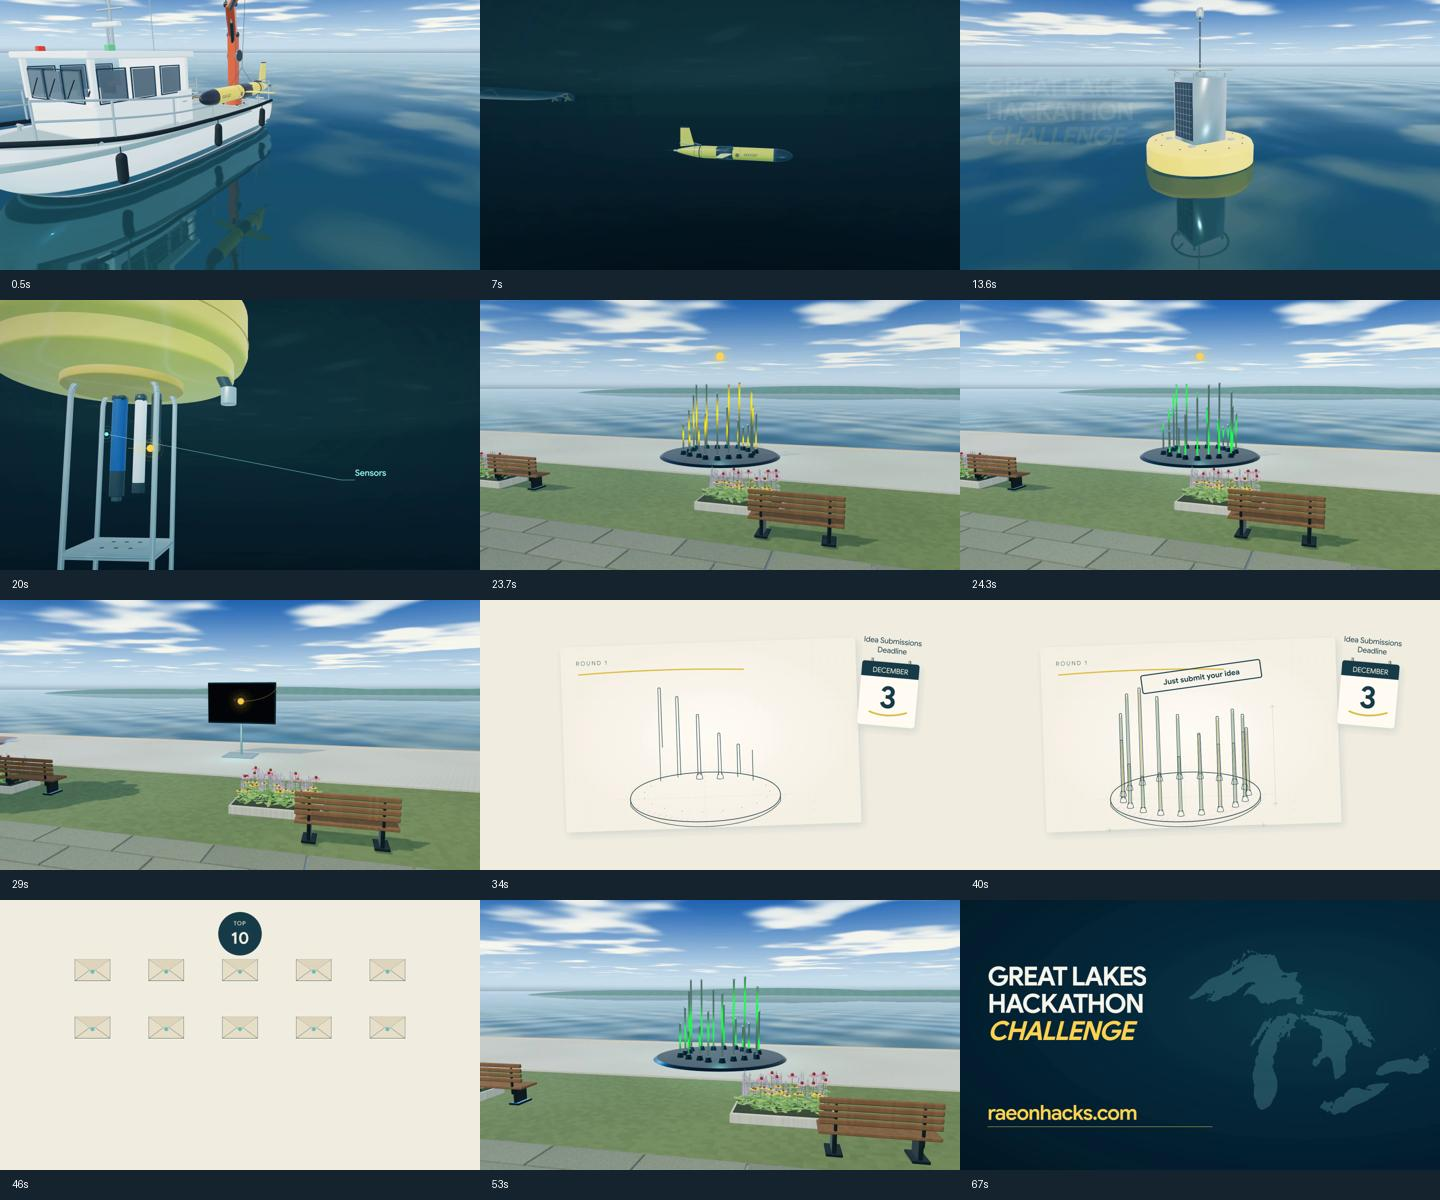
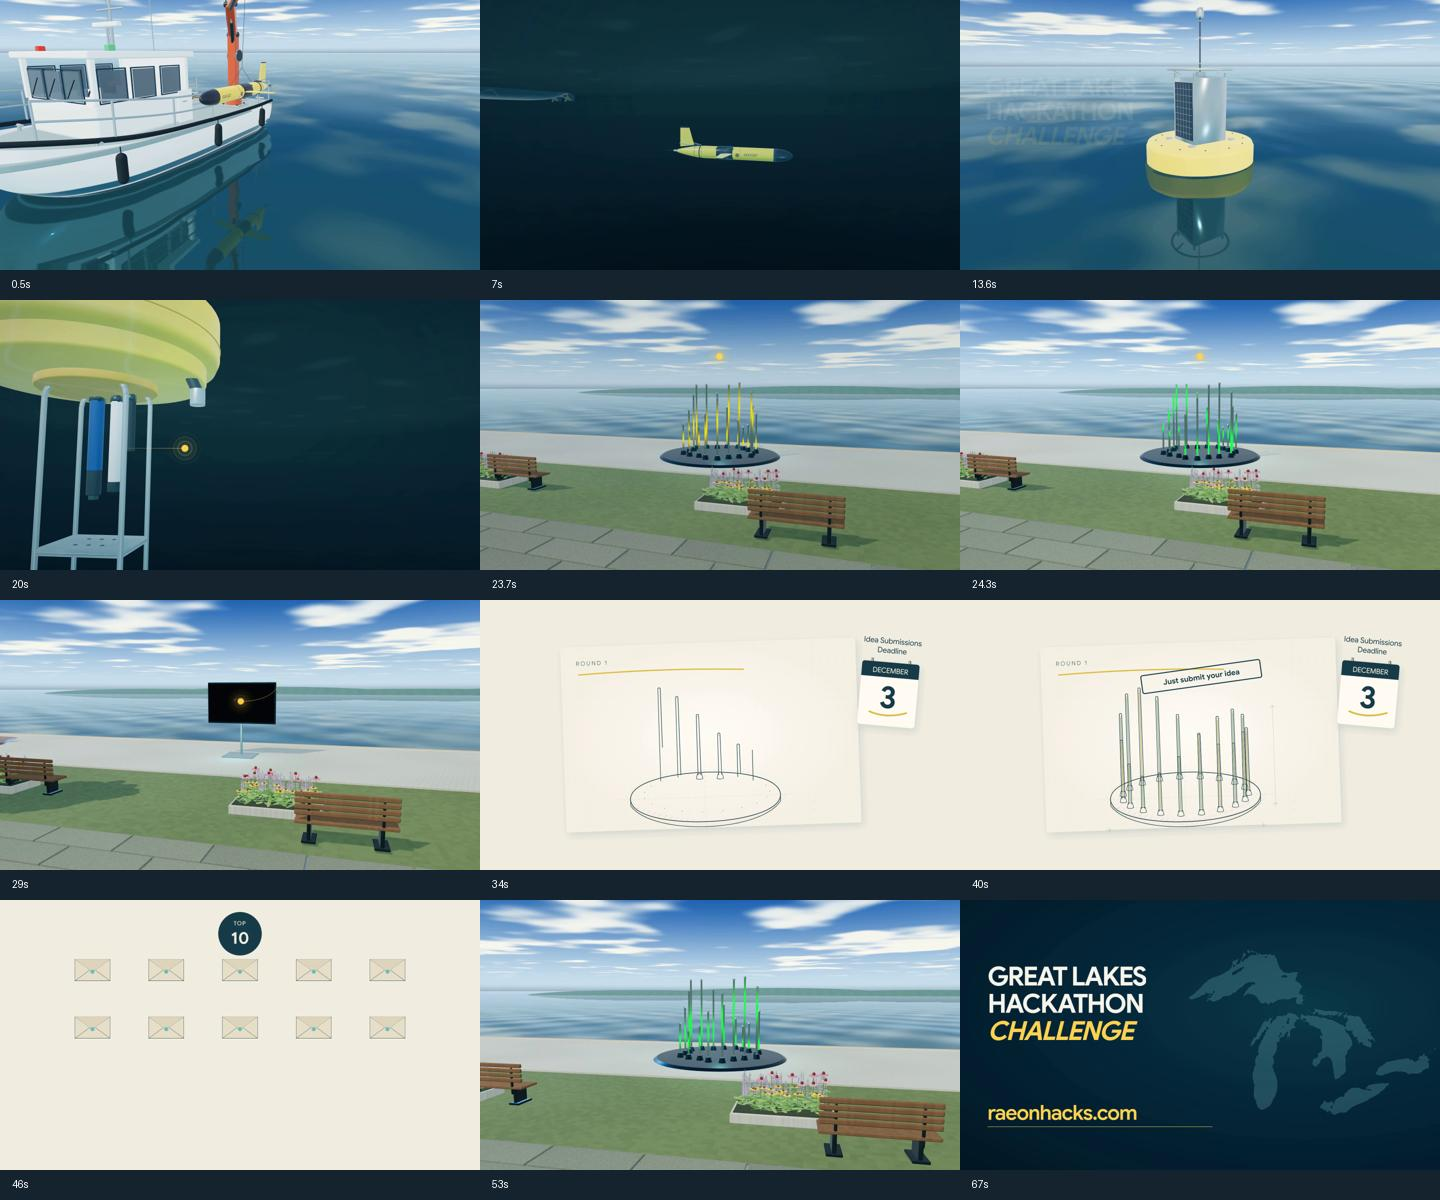
Extend underwater climb and level glide through24 seconds

Changed region(s): [[0.0, 0.2467, 0.1875, 0.4933], [0.4688, 0.3392, 0.5312, 0.37]]

diff --git a/promo/src/rough-science.jsx b/promo/src/rough-science.jsx
@@ -7,8 +7,8 @@ import {RoughWaterfront} from './rough-waterfront';
 import * as THREE from 'three';
 import {productionSciencePath} from './production-science-path.mjs';
 import {productionWaterHeight} from './production-water-height.mjs';
-export function RoughScience({assembled=false,production=false,revision=false}){
- const f=useCurrentFrame(),canvas=useRef(null),world=useRef(null),annotations=useRef(null);
+export function RoughScience({assembled=false,production=false,revision=false,frameOverride=null}){
+ const currentFrame=useCurrentFrame(),f=frameOverride??currentFrame,canvas=useRef(null),world=useRef(null),annotations=useRef(null);
  const sceneFrame=assembled&&!production&&f>201?201+(f-201)*72/117:f;const [handle]=useState(()=>delayRender('rough science sensor reveal'));
  useLayoutEffect(()=>{let disposed=false;setup(canvas.current,true,annotations.current,production,revision).then(w=>{if(disposed){w.dispose();return}world.current=w;w.draw(sceneFrame);continueRender(handle)}).catch(cancelRender);return()=>{disposed=true;world.current?.dispose()}},[]);
  useLayoutEffect(()=>{world.current?.draw(sceneFrame)},[f]);
@@ -23,7 +23,7 @@ export function RoughScience({assembled=false,production=false,revision=false}){
  <div style={{position:'absolute',left:100,top:300,fontFamily:'Google Sans, sans-serif',fontWeight:700,fontSize:100,lineHeight:.98,letterSpacing:'-.055em',color:'#f6f6ed',opacity:title}}>GREAT LAKES<br/>HACKATHON<br/><span style={{color:'#ffd450',fontStyle:'italic'}}>CHALLENGE</span></div>
  <canvas ref={annotations} width={1920} height={1080} style={{position:'absolute',inset:0,width:1920,height:1080}}/>
  <AbsoluteFill style={{background:'#03131f',opacity:production?0:out}}/>
- {production&&f>=280&&<AbsoluteFill style={{opacity:(()=>{const p=Math.max(0,Math.min(1,(f-280)/37));return p*p*(3-2*p)})()}}><RoughWaterfront production silent revision={revision} hidePulse frameOverride={f-318}/></AbsoluteFill>}
+ {production&&f>=(revision?310:280)&&<AbsoluteFill style={{opacity:(()=>{const p=Math.max(0,Math.min(1,(f-(revision?310:280))/(revision?53:37)));return p*p*(3-2*p)})()}}><RoughWaterfront production silent revision={revision} hidePulse frameOverride={f-(revision?364:318)}/></AbsoluteFill>}
 
  {revision&&<GoldStoryPulse scene="science" f={f}/>}
  </AbsoluteFill>

diff --git a/promo/src/gold-story-pulse.jsx b/promo/src/gold-story-pulse.jsx
@@ -4,9 +4,9 @@ const gold='#ffd450';
 export function GoldStoryPulse({scene,f}){
  if(scene==='science'&&f<165)return null;
  if(scene==='waterfront'&&f>141)return null;
- const point=goldStoryPoint(scene,f),time=(scene==='science'?f/30:10.6+f/30),hit=scene==='waterfront'?Math.max(0,Math.min(1,(f-TV_ENTRY_FRAME)/13)):0;
+ const point=goldStoryPoint(scene,f),time=(scene==='science'?f/30:364/30+f/30),hit=scene==='waterfront'?Math.max(0,Math.min(1,(f-TV_ENTRY_FRAME)/13)):0;
  const fade=scene==='waterfront'?1-Math.max(0,Math.min(1,(f-125)/4)):1;
- const ringScale=scene==='waterfront'?.5:1-.5*Math.max(0,Math.min(1,(f-280)/37));
+ const ringScale=scene==='waterfront'?.5:1-.5*Math.max(0,Math.min(1,(f-310)/53));
  const trail=Array.from({length:60},(_,i)=>goldStoryPoint(scene,Math.max(scene==='science'?165:-153,f-i*.9)));
  return <svg width="1920" height="1080" style={{position:'absolute',inset:0,pointerEvents:'none'}}>
  <defs><radialGradient id={`gold-aura-${scene}`}><stop stopColor={gold} stopOpacity=".45"/><stop offset=".3" stopColor={gold} stopOpacity=".12"/><stop offset="1" stopColor={gold} stopOpacity="0"/></radialGradient></defs>

diff --git a/promo/src/corrected-scenes.jsx b/promo/src/corrected-scenes.jsx
@@ -12,5 +12,6 @@ const components=[RoughOpening,RoughScience,RoughWaterfront,RoughRoundOne,RoughR
 const maps=timeline.scenes.map(s=>narrationTimeMap(s.from,s.to));
 export function CorrectedScene({index}){
  const f=useCurrentFrame(),Component=components[index];
+ if(index===1)return <Component production revision assembled frameOverride={maps[index](f)}/>;
  return <Freeze frame={maps[index](f)}><Component production revision assembled/></Freeze>;
 }

diff --git a/promo/review-24s-transition.py b/promo/review-24s-transition.py
@@ -1,0 +1,9 @@
+import cv2
+from PIL import Image,ImageDraw
+from pathlib import Path
+root=Path(__file__).resolve().parent
+items=[('long-curve-science.mp4',f) for f in [150,190,212,235,260,278,295,310,318]]+[('24s-waterfront.mp4',f) for f in [0,30,149]]
+sheet=Image.new('RGB',(1440,1200),'#14232e');d=ImageDraw.Draw(sheet)
+for i,(name,f) in enumerate(items):
+ c=cv2.VideoCapture(str(root/'out'/name));c.set(cv2.CAP_PROP_POS_FRAMES,f);ok,a=c.read();assert ok;(im:=Image.fromarray(cv2.cvtColor(a,cv2.COLOR_BGR2RGB))).thumbnail((480,270));x=i%3*480;y=i//3*300;sheet.paste(im,(x,y));d.text((x+8,y+275),f'{name} frame {f}',fill='white');c.release()
+sheet.save(root/'evidence/24s-transition-review.jpg')

diff --git a/promo/CORRECTED-NARRATION.md b/promo/CORRECTED-NARRATION.md
@@ -3,12 +3,16 @@
 The organizer supplied ElevenLabs_2026-11-01T05_54_00_Ashley_pvc_sp100_s50_sb75_v4.mp3. Its byte-identical copy is public/audio/ashley-corrected.mp3. It replaces the earlier reference only in the revised film. No music/SFX is included.
 
 ## Timing
-New audio67.3959375s; output2022 frames/67.4s at30FPS. Corrected scene boundaries:0,401,717,943,1335,1762,2022. Local automatic word timestamps in evidence/ashley-corrected-timing.json identify The Great Lakes13.38s, can experience23.90s, Be28.98s, Round1 31.44s, Round2 44.52s, Ready58.74s and URL instruction64.54s. Smooth monotonic frame remapping with natural endpoint speed (no added scene-boundary time stop) in src/corrected-timeline.json retains approved choreography and retimes major narration cues. Freeze supplies fractional legacy frames so geometry animation is evaluated smoothly rather than duplicating encoded frames.
+New audio67.3959375s; output2022 frames/67.4s at30FPS. Corrected scene boundaries:0,401,720,943,1335,1762,2022. Local automatic word timestamps in evidence/ashley-corrected-timing.json identify The Great Lakes13.38s, can experience23.90s, Be28.98s, Round1 31.44s, Round2 44.52s, Ready58.74s and URL instruction64.54s. Smooth monotonic frame remapping with natural endpoint speed (no added scene-boundary time stop) in src/corrected-timeline.json retains approved choreography and retimes major narration cues. Freeze supplies fractional legacy frames so geometry animation is evaluated smoothly rather than duplicating encoded frames.
 
 ## Gold pulse
-Revised-only travelling pulse is a screen-space graphic projected from scene cameras, with gold core/rings/trail. It leaves sensor view on one continuous path, swims straight for legacy frames165-225, then rises smoothly during225-270 and holds exactly the projected above-display starting height; it is centred above the light/sound displays, with the climb complete before their reveal. During the direct dissolve only one pulse is drawn. The old Three.js story pulse is disabled only for revision mode; sensor callout leaders remain.
+Revised-only travelling pulse is a screen-space graphic projected from scene cameras, with gold core/rings/trail. It leaves sensor view on one continuous path, swims straight for legacy frames165-225, then rises smoothly during225-285 and holds exactly the projected above-display starting height; it is centred above the light/sound displays, with the climb complete before their reveal; the flat top glide continues to363 and the dissolve310-363 finishes at exactly24s. During the direct dissolve only one pulse is drawn. The old Three.js story pulse is disabled only for revision mode; sensor callout leaders remain.
 
 The fading tail samples only this same continuous path, avoiding old projected sensor history. Display path stays above installations, then turns clockwise to the right and down into the physical screen. TV_ENTRY_FRAME125 maps to corrected global frame869 (28.9667s), within one frame of Be28.98s. Entry equals projected LED centre. Gold entry flash resolves as the LED letter animation starts; the first letter has positive illumination at entry frame125. The travelling pulse does not restart in closing. Small display rings retained. Opening CASH PRIZES and GET FEATURED AT TOURIST SPOTS overlays are invisible in revision mode. Calendar dates/sketch/folding/top10/resources/scenery retained.
 
 ## Rebuild and verification
 Render Corrected-opening/science/waterfront/round1/round2/closing from src/index.jsx. Assemble with python promo/assemble-production.py corrected-assembly.json. Verify with python promo/verify-production-assembly.py corrected-assembly.json and node promo/verify-corrected-motion.mjs. Corrected narration is mapped once across the complete timeline, rather than concatenating AAC excerpts. Previous music prototypes and approved exports are retained. No website/shared-GLB changes.
+
+Timing refinement: science now319 output frames; waterfront starts720/24s and has223 frames. Scene retiming gives1.6s climb and1.9667s high forward glide. TV entry remains global869.
+
+Extended science uses explicit frameOverride rather than Freeze because Remotion clamps hook frames to composition duration; this preserves legacy363 evaluation in the319-frame scene.

diff --git a/LOG.md b/LOG.md
@@ -514,3 +514,8 @@ Production spacing48->20 units, transition intervals48 frames; peak camera trave
 ### 2026-11-01 - Straight swim, exact tail and clockwise TV power entry
 - Organizer approved longer horizontal swim before rising, tail following exact dot path and clockwise TV entry to power BE CREATIVE. One continuous screen-space trajectory starts165, stays horizontal through225, climbs225-270, and holds centre/high before display reveal280. Tail is fading history of the same path; eliminated former projected-path kink. Clockwise right/down TV approach ends125; first letter receives positive illumination on arrival. Corrected narration/current landscaping retained; music/SFX deferred.
 - Verified geometry: straight height error0px,282.03px straight displacement; forward travel from185423.48px (9.55x original baseline). Centred hold, scene join, history and TV endpoint errors effectively0px. TV arrival global869/28.9667s against Be28.98s. Twelve focused render frames visually inspected. Full2022-frame1920x1080/30FPS67.4s decode,18 source-frame comparisons and narration correlation0.999998689/zero lag pass. Diff check passed. Initial verification was launched before assembly completed and decoded0frames; rerun after completion passed. Artifact promo/out/glhc-straight-swim-tv-power.mp4. Evidence straight-swim-tv-review.jpg, corrected-motion.json, corrected-narration-verification.json. No manual listening/playback/deployment claim. Next: organizer review.
+
+
+### 2026-11-01 - Longer climb and plateau through24s
+- Organizer requested underwater scene/dissolve through24s and longer climbing/high flat movement. Science extended319 output frames with explicit legacy frameOverride through363; waterfront begins720/24s with223 frames. Retiming preserves straight swim, gives1.6s climb225-285 and1.9667s level forward glide285-363; dissolve310-363 completes at boundary. High display join and clockwise TV cue global869/28.9667s retained.
+- Initial render inspection exposed Remotion Freeze clamping extended legacy frame to composition duration; explicit science frameOverride fixed this before final export. Twelve focused moments visually inspected, including completed dissolve and matching next frame. Geometry straight/level/centre/join/history/TV checks pass;2022-frame1920x1080/30FPS67.4s full decode and18 source-frame comparisons pass. Narration correlation0.999998689, zero lag; no music/SFX. Diff check passed. Artifact promo/out/glhc-24s-waterfront-transition.mp4; evidence24s-transition-review.jpg and corrected-motion/verification reports. No manual playback/listening/deployment claim. Next: organizer review.

diff --git a/NOW.md b/NOW.md
@@ -1,7 +1,7 @@
-# Active Initiative - GLHC-004 straight swim and TV power cue
+# Active Initiative - GLHC-004 transition through24s
 
-Status: complete; organizer review pending. Main fetched and verified ancestor.
+Status: complete; organizer review pending. Main fetched ancestor.
 
-Organizer-approved longer straight gold swim: legacy165-225 horizontal,225-270 climb, level before280 display reveal. Tail fades along identical history, without projected sensor-history kink. Clockwise right/down approach feeds TV at125; first letter illuminated on arrival. Centred high light/sound hold retained, corrected narration only.
+Underwater dissolve now completes exactly24s (science319 frames, waterfront begins720). Straight swim retained; climb225-285 maps1.6s, high forward glide285-363 maps1.9667s. Tail follows identical history, matching centred display join; clockwise TV power cue stays global869/28.9667s. Explicit science frameOverride avoids Remotion composition-frame clamping.
 
-Geometry checks pass: straight height error0px,282.03px straight travel,423.48px remaining forward travel from185; join/history/TV endpoint errors effectively0px. Twelve focused rendered moments visually reviewed. Artifact promo/out/glhc-straight-swim-tv-power.mp4. Verified2022 frames/67.4s1920x1080/30FPS,18 source-frame comparisons, corrected narration correlation0.999998689 with zero lag. No music/SFX. Diff check passed. No manual listening/playback or deployment claim. Next: organizer review. Website/shared model/live unchanged.
+Geometry checks pass;12 focused rendered moments visually inspected, including completed dissolve and seamless next frame. Artifact promo/out/glhc-24s-waterfront-transition.mp4. Verified2022-frame1920x1080/30FPS67.4s decode,18 source comparisons, narration correlation0.999998689/zero lag and diff check. Next: organizer review. No manual playback/listening/deployment claim. Narration only; website/live unchanged.

diff --git a/TASKS.md b/TASKS.md
@@ -158,3 +158,5 @@ Production spacing48->20 units, transition intervals48 frames; peak camera trave
 - TV endpoint, cue and trail history unchanged; corrected voice/current flowers/lighter trees/deadline-only calendar retained. Verified full2022-frame1920x1080/30FPS67.4s export/decode and18 source-frame comparisons. Nine focused and12 full-cut moments visually inspected. Climb complete legacy270, before display reveal280; high-hold/centre/join/trail-history/TV endpoint errors0px in geometry checks. Rendered display core samples at0/30/80 within0.738px of[960,225.8845]. Sensor callouts stay within48px margins. Forward swim366.17px retains minimum2x requirement; TV cue28.9667s unchanged. Corrected audio correlation0.999998689, zero lag; no music/SFX. Diff check passed. Evidence centred-high-dot-review.jpg/render.json, corrected-motion.json and corrected-narration-verification.json/review.jpg. No manual listening/playback/deployment claim.
 
 - `[verified; organizer review pending]` GLHC-004 longer straight gold swim, fading exact-history tail and clockwise LED power entry.
+
+- `[verified; organizer review pending]` GLHC-004 extend climb/high glide and underwater dissolve through24s; retain TV cue.

diff --git a/PROJECT.md b/PROJECT.md
@@ -95,3 +95,5 @@ Promo narration update (organizer2026-11-01): corrected Ashley MP3 is public/aud
 Promo visual follow-up2026-11-01: extended forward gold-pulse swim with an S-shaped climb, levelling off before the waterfront reveal and staying centred above the light/sound displays, lighter green trees, mixed pink/yellow/purple flower beds instead of pointed grasses. Round1 film keeps the December3 deadline calendar only; organizer removed the opening-date calendar.
 
 Promo gold pulse refinement2026-11-01: continuous straight screen-space swim165-225, climb225-270, exact fading history tail; clockwise TV approach ends at125 and first LED letter illumination. Centred high light/sound hold retained.
+
+Promo timing follow-up2026-11-01: underwater dissolve now completes at24s, with1.6s climb and1.9667s high forward glide. Science frameOverride supports extended legacy clock through363; TV cue remains28.9667s.
